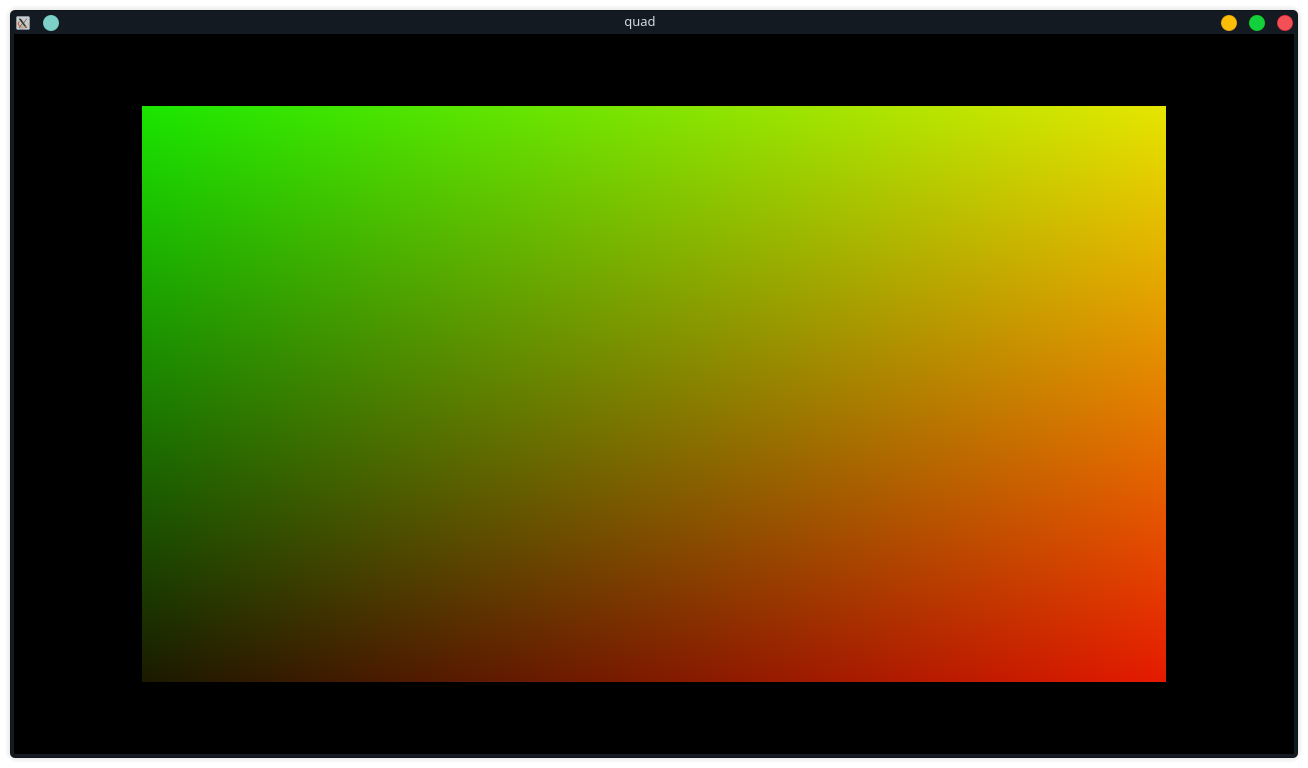
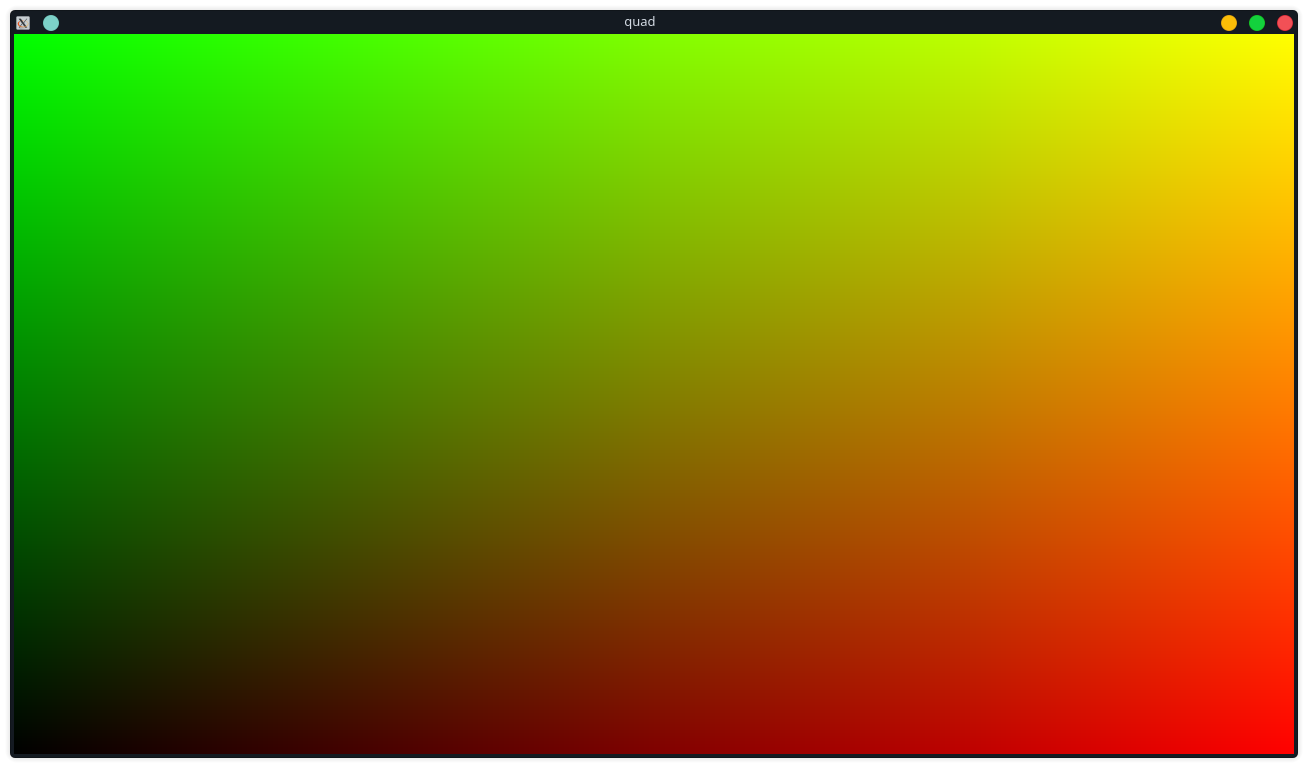
Make quad fill window, download lunar color texture

diff --git a/clojure-lwjgl.tex b/clojure-lwjgl.tex
@@ -336,10 +336,10 @@ void main()
   \frametitle{Single Quad {-} Vertices and Indices}
   \begin{minted}[]{clj}
 (def vertices  ;   x    y   z
-  (float-array [ 0.8  0.8 0.0
-                -0.8  0.8 0.0
-                -0.8 -0.8 0.0
-                 0.8 -0.8 0.0]))
+  (float-array [ 1.0  1.0 0.0
+                -1.0  1.0 0.0
+                -1.0 -1.0 0.0
+                 1.0 -1.0 0.0]))
 
 (def indices
   (int-array [0 1 2 3]))
